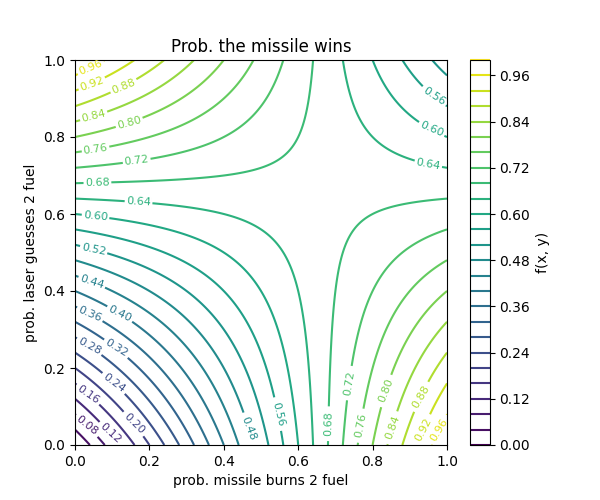
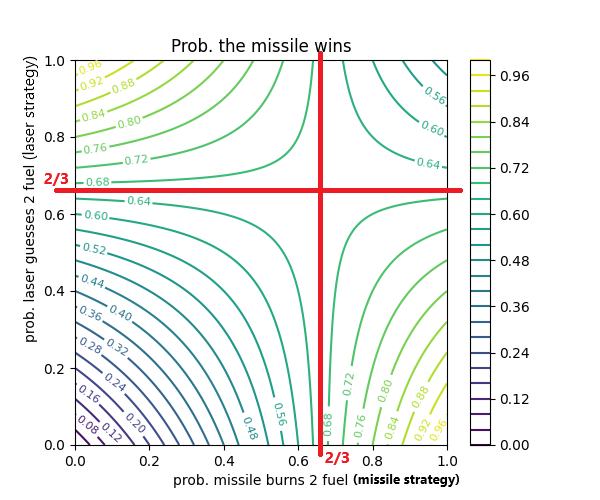
Adds missing details for terminal maneuvers blog entry

diff --git a/x/31/index.html b/x/31/index.html
@@ -13,12 +13,15 @@
 </div>
 <div class='box_container'>
 <div class='text_container'>
-<h1>Missile vs. Laser: The Game of Terminal Maneuvers </h1><p>01-07-2025 9:42PM (ET) 02-05-2025 8:25PM (ET) (edited)</p><hr /><p><img alt="Terminal Maneuvers" src="figs/term.png" /></p>
-<h1>Missile vs. Laser: The Game of Terminal Maneuvers</h1>
+<h1>Missile vs. Laser: The Game of Terminal Maneuvers </h1><p>01-07-2025 9:42PM (ET) 02-06-2025 6:54PM (ET) (edited)</p><hr /><div>
+        <img src="figs/term.png" alt="Terminal Maneuvers" style="max-width:800px; width:100%;">
+</div>
+
+<h1>Missile vs. Laser: Terminal Maneuvers the Game</h1>
 <p><em>What is the best strategy to hit a maneuvering missile with a point defense laser when the missile is traveling through space at ~1 percent the speed of light?</em></p>
 <p>A few years ago I was trying to work out at what range a point defense laser on a spaceship could destroy a missile traveling toward that spaceship at ~1% the speed of light<sup id="fnref:0"><a class="footnote-ref" href="#fn:0">1</a></sup>.
-As I did the math on beam waist, divergence, focal point and power it became clear that the limiting factor on effective range wasn't any of these.
-At 1 light second the laser only learns where the missile a second ago and the laser itself takes an additional second to reach the missile. This creates a 2 second latency.
+<a href="https://web.archive.org/web/20250206235618/https://toughsf.blogspot.com/2016/03/the-laser-problem-ii.html">As I did the math on beam waist, divergence, focal point and power</a> it became clear that the limiting factor on effective range wasn't any of these.
+At 1 light second the laser only learns where the missile was a second ago and the laser itself takes an additional second to reach the missile. This creates a 2 second latency.
 The missile can burn maneuvering fuel to do random but minor course changes to make its future position uncertain to the laser.
 Thus the laser could hit the missile, if only it knew where the missile was going to be.</p>
 <p><img alt="alt text" src="figs/missilelaser.png" /></p>
@@ -31,7 +34,7 @@ This produces the following effect:</p>
 <ul>
 <li>The missile wants to make its future position uncertain by burning fuel.</li>
 <li>If the missile is far away from the laser, burning small amounts of fuel can make the position of missile very uncertain to the laser.</li>
-<li>When the missile gets closer to the laser, the latency to the laser decreases, so it cost the missile more fuel to maintain that same level of uncertainty.</li>
+<li>When the missile gets closer to the laser, the latency to the laser decreases, so it costs the missile more fuel to maintain that same level of uncertainty.</li>
 </ul>
 <p>These rules suggests a strategy where the missile conserves fuel when it is far away and then burns increasing more fuel as it gets closer.
 This approach is still missing a critical aspect.</p>
@@ -57,13 +60,14 @@ This approach is still missing a critical aspect.</p>
 </tr>
 </tbody>
 </table>
-<p>We can represent all missile strategies using the variables, $m_1,m_2,l_1,l_2$, where $m_1$ is the probability the missile chooses 1 fuel, $m_2$, etc... The probability the laser wins given a missile strategy $(m_1,m_2)$ and laser strategy $(l_1,l_2)$ is:</p>
+<p>We can represent all missile strategies using the variables, $m_1,m_2,l_1,l_2$, where $m_1$ is the probability the missile chooses 1 fuel, $m_2$ is the probability the missile chooses 2 fuel. The probability the laser wins given a missile strategy $(m_1,m_2)$ and laser strategy $(l_1,l_2)$ is:</p>
 <p>$$l_{wins} = m_1 \cdot l_1 + 1/2 \cdot m_2 \cdot l_2$$</p>
-<p>If we assume the laser always knows the strategy the missile will use, what strategy should the missile use? Let's say the missile always burns 2 fuel to be safe, $(m_1=0,m_2=1)$. The laser knowing this burns  always guess 2 Fuel $(l_1=0,l_2=1)$. The probability the laser wins is $0 \cdot 0 + 1/2 \cdot 1 \cdot 1=1/2$.</p>
-<p>If the missile burns 1 fuel 1/3 of time and 2 fuel 2/3 of the time, $(m_1=1/3,m_2=2/3)$. The best strategy the laser can choose is the same $(l_1=1/3,l_2=2/3)$.
-The laser win probability is:
+<p>If we assume the laser always knows the strategy the missile will use, what strategy should the missile use? If the missile always burns 2 fuel to be safe, $(m_1=0,m_2=1)$, the laser knowing this always guess 2 Fuel $(l_1=0,l_2=1)$ resulting in the probability the laser wins $0 \cdot 0 + 1/2 \cdot 1 \cdot 1=1/2$.</p>
+<p>If the missile burns 1 fuel $1/3$ of time and 2 fuel $2/3$ of the time, $(m_1=1/3,m_2=2/3)$. It doesn't matter what strategy the laser chooses, the laser win probability will be:
+$$ 1/3 \cdot 1/3 + 1/2 \cdot 2/3 \cdot 2/3=1/9+4/18=1/3.$$</p>
+<p>A better strategy for the missile is to burn 1 fuel $1/3$ of time and 2 fuel $2/3$ of the time, $(m_1=1/3,m_2=2/3)$. Under this strategy ut doesn't matter what strategy the laser chooses, the laser win probability will be:
 $$ 1/3 \cdot 1/3 + 1/2 \cdot 2/3 \cdot 2/3=1/9+4/18=1/3.$$
-This is much better strategy for the missile since if the laser wins $1/3$ of the time, the missile wins $2/3$ of the time. No matter what strategy the laser chooses the missile if it chooses this strategy win with $2/3$ probability. This is also true in the other direction, if the laser uses this strategy it will always win $1/3$ of the time. This property of a game is called a <a href="https://en.wikipedia.org/wiki/Nash_equilibrium">Nash Equilibrium</a>. We graph it below. Notice the line for $2/3$ is the same for all strategies.</p>
+and if the laser wins $1/3$ of the time, the missile wins $2/3$ of the time. This is also true in the other direction, if the laser uses this strategy, guessing 1 fuel $1/3$ of the time and 2 fuel $2/3$ of the time, it will always win $1/3$ of the time regardless of what strategy the missile chooses. This property of a game is called a <a href="https://en.wikipedia.org/wiki/Nash_equilibrium">Nash Equilibrium</a>. We graph it below. Notice the line for $2/3$ is the same for all strategies.</p>
 <p><img alt="alt text" src="figs/nashtopo.png" /></p>
 <!-- Since the laser always loses if it guesses incorrectly we can simplify this table to only show what happens with correct guesses.
 
@@ -73,7 +77,7 @@ This is much better strategy for the missile since if the laser wins $1/3$ of th
 | Missile burns 2 Fuel  | 1/2      | -->
 
 <p>If the missile always burns the same amount of fuel and the laser knows this, the laser has to search a smaller area.
-That is, the missile should <a href="https://imsdb.com/scripts/Cincinnati-Kid,-The.html">bluff.</a></p>
+Put another way the missile is more likely to win if it occasional chooses the worst option, <a href="https://imsdb.com/scripts/Cincinnati-Kid,-The.html">making the wrong play at the right time.</a></p>
 <div class="codehilite"><pre><span></span><code>    LANCEY:
     Gets down to what it&#39;s all about, doesn&#39;t it? 
     Making the wrong play at the right time.
@@ -87,10 +91,10 @@ That is, the missile should <a href="https://imsdb.com/scripts/Cincinnati-Kid,-T
     And I got the money and you got the questions.
 </code></pre></div>
 
-<p>In an attempt to explore the strategy of this missile vs laser dynamic I designed a game called terminal maneuvers. It is more complex that the single round variant we just looked at but contains is still the most stripped game possible. First I'm going to describe the rules, then look at how to play it some dice, cards and a piece of paper and then finally provide a link an online version you can play against a computer.</p>
+<p>In an attempt to explore the strategy of this missile vs laser dynamic I designed a called terminal maneuvers. It is more complex that the single round variant we just looked at but attempts to be as simple as possible. First I'm going to describe the rules, then look at how to play it with some dice, cards and a piece of paper and then finally provide a link an online version I wrote.</p>
 <h2>How to play Terminal Maneuvers</h2>
 <p>In this game there are two players, a missile and a laser. The game consists of five rounds. The laser's goal is to hit the missile with laser before the end of round five. The missile's goal is to survive to end of round five.</p>
-<p>At the beginning of each round the missile secretly chooses how much fuel to burn to maneuver. Then the laser attempts to guess this number. We assume the laser always knows how much starting fuel the missile has and after the end of each round, the laser learns how much fuel the missile burnt on that round.</p>
+<p>At the beginning of each round the missile secretly chooses how much fuel to burn to maneuver. Then the laser attempts to guess this number. We assume the laser always knows how much starting fuel the missile has remaining at the beginning of each round.</p>
 <p>If the laser guesses incorrectly. The missile is safe for that round and we go to the next round.</p>
 <p>If the laser guesses correctly, there is a hit probability table based on the amount of fuel the missile burned and the round. Burning more fuel produces a larger potential area that missile could be in and thus it is less likely the laser hits the missile. On the other hand as the missile gets closer to the laser, the lasers information about the missile is more recent and thus, the hit probability goes up.</p>
 <table>
@@ -221,18 +225,98 @@ The laser knows the missile must burn 0 fuel, because that is the only option le
 This means the missile is always hit.</p>
 <p>So given a fuel value between 5 and 19, the missile and laser both have a chance of winning. The missiles chance of winning increases as the starting fuel goes up.</p>
 <p>Generally I play the game where the missile has 7 fuel. So far in my experiments the laser wins ~75% of the time.</p>
-<h2>Future Work</h2>
-<p>To my shame, I haven't actually done the work to see if there is a Nash equilibrium between the missile and laser strategies although someone has looked in it. I'll leave it to them to say. I have a plan to write a high fidelity version of Terminal Maneuvers that is continuous and not turn based.</p>
+<h2>Accuracy</h2>
+<p>Terminal maneuvers tries to get at the core strategy elements here so that the player can get a sense of the trade-offs and the strategic landscape. It is not a high fidelity simulation. Terminal maneuvers suffers from a number of inaccuracies:</p>
+<h3>Hit Probability is Extremely Simplified</h3>
+<p>The actual increase in uncertainty for burning fuel is tricky to calculate. At a particular distance each unit of fuel provides 10 meters of movement we can think of this as a series of spherical shells. If the laser guesses the missile burned 0 to 1 Fuel, the missile must be somewhere in a 10 meter radius sphere. If the laster guesses the missile burned 1 to 2 Fuel, the missile must be somewhere 20 meter shell where the shell is 10 meters thick. As the area of a sphere of radius $r$ is $4\pi \dot r^2$ the equation for the area the laser needs given $f$ is
+$$4\pi (10 \times f)^2 - 4\pi (10 \times f-1)^2$$
+where $f$ a range of fuel burned between $f-1$ to $f$, e.g., $f=4$ means between $3$ to $4$ units of fuel was burned. Comparing the actual area against the d6 hit table shows that d6 only roughly approximates the probability differences.</p>
+<table>
+<thead>
+<tr>
+<th>$f$</th>
+<th>Area</th>
+<th>Hit prob. in game</th>
+</tr>
+</thead>
+<tbody>
+<tr>
+<td>0</td>
+<td>0</td>
+<td>1</td>
+</tr>
+<tr>
+<td>1</td>
+<td>~1256</td>
+<td>5/6</td>
+</tr>
+<tr>
+<td>2</td>
+<td>~3770</td>
+<td>4/6</td>
+</tr>
+<tr>
+<td>3</td>
+<td>~6283</td>
+<td>3/6</td>
+</tr>
+<tr>
+<td>4</td>
+<td>~8796</td>
+<td>2/2</td>
+</tr>
+<tr>
+<td>5</td>
+<td>~11310</td>
+<td>1/6</td>
+</tr>
+<tr>
+<td>6</td>
+<td>~13823</td>
+<td>0</td>
+</tr>
+</tbody>
+</table>
+<p>However the area of the shell is not an accurate measure of hit probability. This is because the laser can pass through multiple shells at once (as shown). Some areas in a shell provide less protection than others because the laser gets them for free, hitting many different potential missile locations with a single laser.</p>
+<div>
+        <img src="figs/shells.png" alt="Shells the laser needs to search" style="max-width:500px; width:100%;">
+</div>
+
+<h3>Laser should be resource constrained</h3>
+<p>In reality the laser does not get infinite shots, firing a laser of the power required draws enormous of power and generates enormous amounts of heat.
+Dissipating heat in the vacuum of space is difficult.
+A more realistic game would model the laser's resources constraints as well as the missiles fuel.</p>
+<p>I thought about adding this to the game by giving the laser have a "skip turn" card that it must play at least once instead of a guess. If the laser is still holding the "skip turn" card by the last turn, the missile wins automatically since the laser must play that card (essentially running out of shots early).
+I avoided putting this in the game because to my mind the best time to play such a card is on the first turn because the laser has the worse odds on the first turn.</p>
+<p>In some way the game does model the laser being resource constrained in that the game only has has only 5 rounds.
+If the laser has 5 shots then the game could be viewed as having 6 rounds, but the laser always skips the 6th round since the laser is waiting until the missile was closer to use up a shot.
+That said, maybe I'm wrong here, perhaps the laser should be allowed to the "wrong thing at the right time." The game currently favors the laser, forcing it to skip one turn might make the game more balanced.</p>
+<h3>Reality is continuous</h3>
+<p>The turn based and integer nature of the game makes it is easy to play with dice and simply to think about but it probably introduces significant artifacts.</p>
+<p>One way I've played around with making this continuous is to define the missile and laser strategies as continuous functions. The missile strategy, $m(t) \rightarrow f$ would take the current time $t$ and would output the fuel to burn $f$ in that instant.
+The laser strategy $l(m(t-λ))$ gets the output of the missile function given the current latency $λ$.
+To ensure the missile strategy and laser strategy is randomized, we'd define them as being randomly sampled from a family of strategies.</p>
+<h3>Missile Swarms</h3>
+<p>It seems unlikely to me that a single missile would be used.
+For instance if a single missile has a $1/10$ chance surviving an destructing the ship protected by the missile then the probability two missiles destroy the ship is better than $1-(1-1/10)*(1-1/10)=19/100$. While one of the missiles is being targeted by the laser the other missile also getting closer. This means that by the time the first missile is destroyed the second missile has a much better chance since it has covered most of the distance.</p>
+<p>Even worse for the laser, a large missile swarm is likely to contain missiles whose sole purpose is dazzling and jamming the laser's sensors. Further complicating the laser's ability to target any of the missiles.</p>
+<p>I didn't include missile swarms in the game since I suspect that many of the things that make the game interesting would average themselves out. For instance each missile could just burn a small amount of maneuvering fuel to get the volley close enough to so that a hit was guaranteed.</p>
+<h2>Future work</h2>
+<p>To my shame, I haven't actually done the work to see if there is a Nash equilibrium between the missile and laser strategies although I know someone who has looked in it and may publish results later. It would be fun to do a continuous version of the game where people could submit missiles and laser strategies and create a leader board.</p>
 <h2>Final thoughts</h2>
 <p>I've been playing around with this game off and on for a few years, with slightly different rules. If you find this game interesting shoot me an email and let me know what strategies worked for you.</p>
+<p>For a second opinion on the laser vs missile question with very different conclusions see Rocket Punk's math <a href="https://web.archive.org/web/20240427091547/http://www.rocketpunk-manifesto.com/2009/09/battle-of-spherical-war-cows-purple-v.html">Battle of the Spherical War Cows: Purple v Green</a> and <a href="https://web.archive.org/web/20240423065620/http://www.rocketpunk-manifesto.com/2009/09/further-battles-of-spherical-war-cows.html">Further Battles of the Spherical War Cows</a>.</p>
 <div class="footnote">
 <hr />
 <ol>
 <li id="fn:0">
-<p>The missile has to be going very very fast. Whatever platform launches the missile has to be far enough away that the target ship can't just hit it with the laser prior to launching. Space is mostly empty and cool so a missile launch is going to visible to anyone looking. Against a slow moving missile that is far away the best strategy for the ship to change course and prevent the missile from intercepting it. In aerial combat this is sometimes called a "kinematic defeat" of a missile and course changes to evade a missile is called "notching". As stated in <a href="https://apps.dtic.mil/sti/citations/ADA384590">A Method of Increasing the Kinematic Boundary of Air-to-Air Missiles Using an Optimal Control Approach (2000)</a> a "missile's kinematic boundary can be described as the maximum theoretical range at which it can intercept a target." In space things are much worse for the missile since the missile must deal with high latency imposed by the huge distances between a ships change in course and when the missile learns about that change. The missile needs an enormous velocity advantage over the ship to launch far away and still get within a ship's kinematic boundary. <img alt="Fig 4.10 from A Method of Increasing the Kinematic Boundary of Air-to-Air Missiles Using an Optimal Control Approach (2000)" src="figs/kboundry.png" />.&#160;<a class="footnote-backref" href="#fnref:0" title="Jump back to footnote 1 in the text">&#8617;</a></p>
+<p>The missile has to be going very very fast. Whatever platform launches the missile has to be far enough away that the target ship can't just hit it with the laser prior to launching. Space is mostly empty and cool so a missile launch is going to visible to anyone looking<sup id="fnref:2"><a class="footnote-ref" href="#fn:2">3</a></sup>. Against a slow moving missile that is far away the best strategy for the ship to change course and prevent the missile from intercepting it. In aerial combat this is sometimes called a "kinematic defeat" of a missile and course changes to evade a missile is called "notching". As stated in <a href="https://apps.dtic.mil/sti/citations/ADA384590">A Method of Increasing the Kinematic Boundary of Air-to-Air Missiles Using an Optimal Control Approach (2000)</a> a "missile's kinematic boundary can be described as the maximum theoretical range at which it can intercept a target." In space things are much worse for the missile since the missile must deal with high latency imposed by the huge distances between a ships change in course and when the missile learns about that change. The missile needs an enormous velocity advantage over the ship to launch far away and still get within a ship's kinematic boundary. <img alt="Fig 4.10 from A Method of Increasing the Kinematic Boundary of Air-to-Air Missiles Using an Optimal Control Approach (2000)" src="figs/kboundry.png" />.&#160;<a class="footnote-backref" href="#fnref:0" title="Jump back to footnote 1 in the text">&#8617;</a></p>
 </li>
 <li id="fn:1">
 <p>An implicit assumption I am making here is that missile can destroy the ship with the point defense laser while still being very far away from the ship. This is because if the missile needed to get as close as say 1 km away, the missile wouldn't stand a chance. Light travels 3 km in 10 microseconds, so the point defense laser would be using targeting information that is only 20 microseconds old. If the missile's warhead is say a <a href="https://en.wikipedia.org/wiki/Nuclear_pumped_laser">nuclear pumped x-ray laser</a>, or <a href="https://en.wikipedia.org/wiki/Casaba-Howitzer">nuclear shaped charges</a> then the missile can detonate at extreme ranges (1000 km). Thus, the range at which the missile warhead if can destroy the less maneuverable ship would be greater than the range at which the laser can reliably always hit the missile.&#160;<a class="footnote-backref" href="#fnref:1" title="Jump back to footnote 2 in the text">&#8617;</a></p>
+</li>
+<li id="fn:2">
+<p>" If the spacecraft are torchships, their thrust power is several terawatts. This means the exhaust is so intense that it could be detected from Alpha Centauri. By a passive sensor. The Space Shuttle's much weaker main engines could be detected past the orbit of Pluto. The Space Shuttle's manoeuvering thrusters could be seen as far as the asteroid belt. And even a puny ship using ion drive to thrust at a measly 1/1000 of a g could be spotted at one astronomical unit." <a href="https://www.projectrho.com/public_html/rocket/spacewardetect.php#nostealth">Detection in Space Warfare - There Ain't No Stealth In Space, Rocket Cat</a>&#160;<a class="footnote-backref" href="#fnref:2" title="Jump back to footnote 3 in the text">&#8617;</a></p>
 </li>
 </ol>
 </div><hr /></div>

diff --git a/x/31/post.md b/x/31/post.md
@@ -1,12 +1,14 @@
-![Terminal Maneuvers](figs/term.png)
+<div>
+        <img src="figs/term.png" alt="Terminal Maneuvers" style="max-width:800px; width:100%;">
+</div>
 
-# Missile vs. Laser: The Game of Terminal Maneuvers
+# Missile vs. Laser: Terminal Maneuvers the Game
 
 *What is the best strategy to hit a maneuvering missile with a point defense laser when the missile is traveling through space at ~1 percent the speed of light?*
 
 A few years ago I was trying to work out at what range a point defense laser on a spaceship could destroy a missile traveling toward that spaceship at ~1% the speed of light[^0].
-As I did the math on beam waist, divergence, focal point and power it became clear that the limiting factor on effective range wasn't any of these.
-At 1 light second the laser only learns where the missile a second ago and the laser itself takes an additional second to reach the missile. This creates a 2 second latency.
+[As I did the math on beam waist, divergence, focal point and power](https://web.archive.org/web/20250206235618/https://toughsf.blogspot.com/2016/03/the-laser-problem-ii.html) it became clear that the limiting factor on effective range wasn't any of these.
+At 1 light second the laser only learns where the missile was a second ago and the laser itself takes an additional second to reach the missile. This creates a 2 second latency.
 The missile can burn maneuvering fuel to do random but minor course changes to make its future position uncertain to the laser.
 Thus the laser could hit the missile, if only it knew where the missile was going to be.
 
@@ -22,7 +24,7 @@ This produces the following effect:
 
 - The missile wants to make its future position uncertain by burning fuel.
 - If the missile is far away from the laser, burning small amounts of fuel can make the position of missile very uncertain to the laser.
-- When the missile gets closer to the laser, the latency to the laser decreases, so it cost the missile more fuel to maintain that same level of uncertainty.
+- When the missile gets closer to the laser, the latency to the laser decreases, so it costs the missile more fuel to maintain that same level of uncertainty.
 
 These rules suggests a strategy where the missile conserves fuel when it is far away and then burns increasing more fuel as it gets closer.
 This approach is still missing a critical aspect.
@@ -35,19 +37,20 @@ Consider the following simple game. The missile either burns 1 or 2 units of fue
 | Missile burns 2 Fuel  | 0 (Laser Loses)      | 1/2 (Laser wins half the time) |
 
 
-We can represent all missile strategies using the variables, $m_1,m_2,l_1,l_2$, where $m_1$ is the probability the missile chooses 1 fuel, $m_2$, etc... The probability the laser wins given a missile strategy $(m_1,m_2)$ and laser strategy $(l_1,l_2)$ is:
+We can represent all missile strategies using the variables, $m_1,m_2,l_1,l_2$, where $m_1$ is the probability the missile chooses 1 fuel, $m_2$ is the probability the missile chooses 2 fuel. The probability the laser wins given a missile strategy $(m_1,m_2)$ and laser strategy $(l_1,l_2)$ is:
 
 $$l_{wins} = m_1 \cdot l_1 + 1/2 \cdot m_2 \cdot l_2$$
 
-If we assume the laser always knows the strategy the missile will use, what strategy should the missile use? Let's say the missile always burns 2 fuel to be safe, $(m_1=0,m_2=1)$. The laser knowing this burns  always guess 2 Fuel $(l_1=0,l_2=1)$. The probability the laser wins is $0 \cdot 0 + 1/2 \cdot 1 \cdot 1=1/2$.
+If we assume the laser always knows the strategy the missile will use, what strategy should the missile use? If the missile always burns 2 fuel to be safe, $(m_1=0,m_2=1)$, the laser knowing this always guess 2 Fuel $(l_1=0,l_2=1)$ resulting in the probability the laser wins $0 \cdot 0 + 1/2 \cdot 1 \cdot 1=1/2$.
 
-If the missile burns 1 fuel 1/3 of time and 2 fuel 2/3 of the time, $(m_1=1/3,m_2=2/3)$. The best strategy the laser can choose is the same $(l_1=1/3,l_2=2/3)$.
-The laser win probability is:
+If the missile burns 1 fuel $1/3$ of time and 2 fuel $2/3$ of the time, $(m_1=1/3,m_2=2/3)$. It doesn't matter what strategy the laser chooses, the laser win probability will be:
 $$ 1/3 \cdot 1/3 + 1/2 \cdot 2/3 \cdot 2/3=1/9+4/18=1/3.$$
-This is much better strategy for the missile since if the laser wins $1/3$ of the time, the missile wins $2/3$ of the time. No matter what strategy the laser chooses the missile if it chooses this strategy win with $2/3$ probability. This is also true in the other direction, if the laser uses this strategy it will always win $1/3$ of the time. This property of a game is called a [Nash Equilibrium](https://en.wikipedia.org/wiki/Nash_equilibrium). We graph it below. Notice the line for $2/3$ is the same for all strategies.
+
+A better strategy for the missile is to burn 1 fuel $1/3$ of time and 2 fuel $2/3$ of the time, $(m_1=1/3,m_2=2/3)$. Under this strategy ut doesn't matter what strategy the laser chooses, the laser win probability will be:
+$$ 1/3 \cdot 1/3 + 1/2 \cdot 2/3 \cdot 2/3=1/9+4/18=1/3.$$
+and if the laser wins $1/3$ of the time, the missile wins $2/3$ of the time. This is also true in the other direction, if the laser uses this strategy, guessing 1 fuel $1/3$ of the time and 2 fuel $2/3$ of the time, it will always win $1/3$ of the time regardless of what strategy the missile chooses. This property of a game is called a [Nash Equilibrium](https://en.wikipedia.org/wiki/Nash_equilibrium). We graph it below. Notice the line for $2/3$ is the same for all strategies.
 
 ![alt text](figs/nashtopo.png)
-
 
 
 <!-- Since the laser always loses if it guesses incorrectly we can simplify this table to only show what happens with correct guesses.
@@ -58,7 +61,7 @@ This is much better strategy for the missile since if the laser wins $1/3$ of th
 | Missile burns 2 Fuel  | 1/2      | -->
 
 If the missile always burns the same amount of fuel and the laser knows this, the laser has to search a smaller area.
-That is, the missile should [bluff.](https://imsdb.com/scripts/Cincinnati-Kid,-The.html)
+Put another way the missile is more likely to win if it occasional chooses the worst option, [making the wrong play at the right time.](https://imsdb.com/scripts/Cincinnati-Kid,-The.html)
 
         LANCEY:
         Gets down to what it's all about, doesn't it? 
@@ -72,13 +75,13 @@ That is, the missile should [bluff.](https://imsdb.com/scripts/Cincinnati-Kid,-T
         I don't play a percentage game. I play stud poker my way. 
         And I got the money and you got the questions.
 
-In an attempt to explore the strategy of this missile vs laser dynamic I designed a game called terminal maneuvers. It is more complex that the single round variant we just looked at but contains is still the most stripped game possible. First I'm going to describe the rules, then look at how to play it some dice, cards and a piece of paper and then finally provide a link an online version you can play against a computer.
+In an attempt to explore the strategy of this missile vs laser dynamic I designed a called terminal maneuvers. It is more complex that the single round variant we just looked at but attempts to be as simple as possible. First I'm going to describe the rules, then look at how to play it with some dice, cards and a piece of paper and then finally provide a link an online version I wrote.
 
 ## How to play Terminal Maneuvers
 
 In this game there are two players, a missile and a laser. The game consists of five rounds. The laser's goal is to hit the missile with laser before the end of round five. The missile's goal is to survive to end of round five.
 
-At the beginning of each round the missile secretly chooses how much fuel to burn to maneuver. Then the laser attempts to guess this number. We assume the laser always knows how much starting fuel the missile has and after the end of each round, the laser learns how much fuel the missile burnt on that round.
+At the beginning of each round the missile secretly chooses how much fuel to burn to maneuver. Then the laser attempts to guess this number. We assume the laser always knows how much starting fuel the missile has remaining at the beginning of each round.
 
 If the laser guesses incorrectly. The missile is safe for that round and we go to the next round.
 
@@ -168,14 +171,73 @@ So given a fuel value between 5 and 19, the missile and laser both have a chance
 
 Generally I play the game where the missile has 7 fuel. So far in my experiments the laser wins ~75% of the time.
 
-## Future Work
+## Accuracy
 
-To my shame, I haven't actually done the work to see if there is a Nash equilibrium between the missile and laser strategies although someone has looked in it. I'll leave it to them to say. I have a plan to write a high fidelity version of Terminal Maneuvers that is continuous and not turn based.
+Terminal maneuvers tries to get at the core strategy elements here so that the player can get a sense of the trade-offs and the strategic landscape. It is not a high fidelity simulation. Terminal maneuvers suffers from a number of inaccuracies:
+
+### Hit Probability is Extremely Simplified
+
+The actual increase in uncertainty for burning fuel is tricky to calculate. At a particular distance each unit of fuel provides 10 meters of movement we can think of this as a series of spherical shells. If the laser guesses the missile burned 0 to 1 Fuel, the missile must be somewhere in a 10 meter radius sphere. If the laster guesses the missile burned 1 to 2 Fuel, the missile must be somewhere 20 meter shell where the shell is 10 meters thick. As the area of a sphere of radius $r$ is $4\pi \dot r^2$ the equation for the area the laser needs given $f$ is
+$$4\pi (10 \times f)^2 - 4\pi (10 \times f-1)^2$$
+where $f$ a range of fuel burned between $f-1$ to $f$, e.g., $f=4$ means between $3$ to $4$ units of fuel was burned. Comparing the actual area against the d6 hit table shows that d6 only roughly approximates the probability differences.
+
+| $f$ | Area    | Hit prob. in game |
+| --- | ---     |  ---     |
+| 0   | 0       | 1 |
+| 1   | ~1256   | 5/6 |
+| 2   | ~3770   | 4/6 |
+| 3   | ~6283   | 3/6 |
+| 4   | ~8796   | 2/2 |
+| 5   | ~11310  | 1/6 |
+| 6   | ~13823  | 0 |
+
+However the area of the shell is not an accurate measure of hit probability. This is because the laser can pass through multiple shells at once (as shown). Some areas in a shell provide less protection than others because the laser gets them for free, hitting many different potential missile locations with a single laser.
+<div>
+        <img src="figs/shells.png" alt="Shells the laser needs to search" style="max-width:500px; width:100%;">
+</div>
+
+### Laser should be resource constrained
+
+In reality the laser does not get infinite shots, firing a laser of the power required draws enormous of power and generates enormous amounts of heat.
+Dissipating heat in the vacuum of space is difficult.
+A more realistic game would model the laser's resources constraints as well as the missiles fuel.
+
+I thought about adding this to the game by giving the laser have a "skip turn" card that it must play at least once instead of a guess. If the laser is still holding the "skip turn" card by the last turn, the missile wins automatically since the laser must play that card (essentially running out of shots early).
+I avoided putting this in the game because to my mind the best time to play such a card is on the first turn because the laser has the worse odds on the first turn.
+
+In some way the game does model the laser being resource constrained in that the game only has has only 5 rounds.
+If the laser has 5 shots then the game could be viewed as having 6 rounds, but the laser always skips the 6th round since the laser is waiting until the missile was closer to use up a shot.
+That said, maybe I'm wrong here, perhaps the laser should be allowed to the "wrong thing at the right time." The game currently favors the laser, forcing it to skip one turn might make the game more balanced.
+
+### Reality is continuous
+
+The turn based and integer nature of the game makes it is easy to play with dice and simply to think about but it probably introduces significant artifacts.
+
+One way I've played around with making this continuous is to define the missile and laser strategies as continuous functions. The missile strategy, $m(t) \rightarrow f$ would take the current time $t$ and would output the fuel to burn $f$ in that instant.
+The laser strategy $l(m(t-λ))$ gets the output of the missile function given the current latency $λ$.
+To ensure the missile strategy and laser strategy is randomized, we'd define them as being randomly sampled from a family of strategies.
+
+### Missile Swarms
+
+It seems unlikely to me that a single missile would be used.
+For instance if a single missile has a $1/10$ chance surviving an destructing the ship protected by the missile then the probability two missiles destroy the ship is better than $1-(1-1/10)*(1-1/10)=19/100$. While one of the missiles is being targeted by the laser the other missile also getting closer. This means that by the time the first missile is destroyed the second missile has a much better chance since it has covered most of the distance.
+
+Even worse for the laser, a large missile swarm is likely to contain missiles whose sole purpose is dazzling and jamming the laser's sensors. Further complicating the laser's ability to target any of the missiles.
+
+I didn't include missile swarms in the game since I suspect that many of the things that make the game interesting would average themselves out. For instance each missile could just burn a small amount of maneuvering fuel to get the volley close enough to so that a hit was guaranteed.
+
+## Future work
+
+To my shame, I haven't actually done the work to see if there is a Nash equilibrium between the missile and laser strategies although I know someone who has looked in it and may publish results later. It would be fun to do a continuous version of the game where people could submit missiles and laser strategies and create a leader board.
 
 ## Final thoughts
 
 I've been playing around with this game off and on for a few years, with slightly different rules. If you find this game interesting shoot me an email and let me know what strategies worked for you.
 
-[^0]: The missile has to be going very very fast. Whatever platform launches the missile has to be far enough away that the target ship can't just hit it with the laser prior to launching. Space is mostly empty and cool so a missile launch is going to visible to anyone looking. Against a slow moving missile that is far away the best strategy for the ship to change course and prevent the missile from intercepting it. In aerial combat this is sometimes called a "kinematic defeat" of a missile and course changes to evade a missile is called "notching". As stated in [A Method of Increasing the Kinematic Boundary of Air-to-Air Missiles Using an Optimal Control Approach (2000)](https://apps.dtic.mil/sti/citations/ADA384590) a "missile's kinematic boundary can be described as the maximum theoretical range at which it can intercept a target." In space things are much worse for the missile since the missile must deal with high latency imposed by the huge distances between a ships change in course and when the missile learns about that change. The missile needs an enormous velocity advantage over the ship to launch far away and still get within a ship's kinematic boundary. ![Fig 4.10 from A Method of Increasing the Kinematic Boundary of Air-to-Air Missiles Using an Optimal Control Approach (2000)](figs/kboundry.png).
+For a second opinion on the laser vs missile question with very different conclusions see Rocket Punk's math [Battle of the Spherical War Cows: Purple v Green](https://web.archive.org/web/20240427091547/http://www.rocketpunk-manifesto.com/2009/09/battle-of-spherical-war-cows-purple-v.html) and [Further Battles of the Spherical War Cows](https://web.archive.org/web/20240423065620/http://www.rocketpunk-manifesto.com/2009/09/further-battles-of-spherical-war-cows.html).
+
+[^0]: The missile has to be going very very fast. Whatever platform launches the missile has to be far enough away that the target ship can't just hit it with the laser prior to launching. Space is mostly empty and cool so a missile launch is going to visible to anyone looking[^2]. Against a slow moving missile that is far away the best strategy for the ship to change course and prevent the missile from intercepting it. In aerial combat this is sometimes called a "kinematic defeat" of a missile and course changes to evade a missile is called "notching". As stated in [A Method of Increasing the Kinematic Boundary of Air-to-Air Missiles Using an Optimal Control Approach (2000)](https://apps.dtic.mil/sti/citations/ADA384590) a "missile's kinematic boundary can be described as the maximum theoretical range at which it can intercept a target." In space things are much worse for the missile since the missile must deal with high latency imposed by the huge distances between a ships change in course and when the missile learns about that change. The missile needs an enormous velocity advantage over the ship to launch far away and still get within a ship's kinematic boundary. ![Fig 4.10 from A Method of Increasing the Kinematic Boundary of Air-to-Air Missiles Using an Optimal Control Approach (2000)](figs/kboundry.png).
 
 [^1]: An implicit assumption I am making here is that missile can destroy the ship with the point defense laser while still being very far away from the ship. This is because if the missile needed to get as close as say 1 km away, the missile wouldn't stand a chance. Light travels 3 km in 10 microseconds, so the point defense laser would be using targeting information that is only 20 microseconds old. If the missile's warhead is say a [nuclear pumped x-ray laser](https://en.wikipedia.org/wiki/Nuclear_pumped_laser), or [nuclear shaped charges](https://en.wikipedia.org/wiki/Casaba-Howitzer) then the missile can detonate at extreme ranges (1000 km). Thus, the range at which the missile warhead if can destroy the less maneuverable ship would be greater than the range at which the laser can reliably always hit the missile.
+
+[^2]: " If the spacecraft are torchships, their thrust power is several terawatts. This means the exhaust is so intense that it could be detected from Alpha Centauri. By a passive sensor. The Space Shuttle's much weaker main engines could be detected past the orbit of Pluto. The Space Shuttle's manoeuvering thrusters could be seen as far as the asteroid belt. And even a puny ship using ion drive to thrust at a measly 1/1000 of a g could be spotted at one astronomical unit." [Detection in Space Warfare - There Ain't No Stealth In Space, Rocket Cat](https://www.projectrho.com/public_html/rocket/spacewardetect.php#nostealth)
